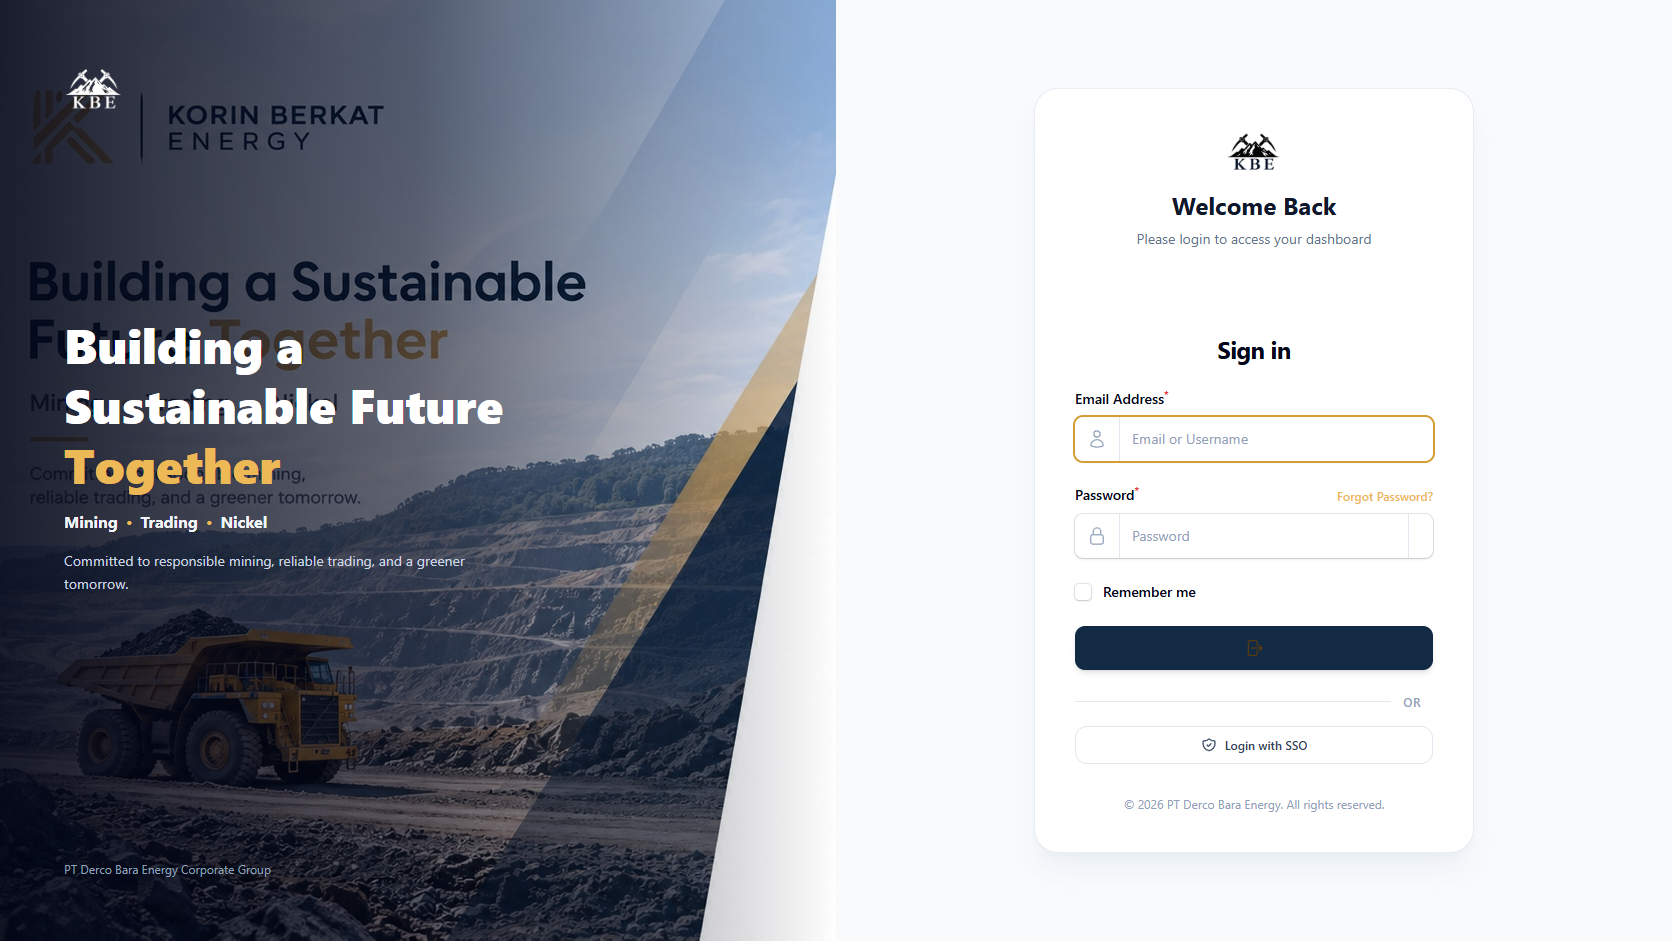
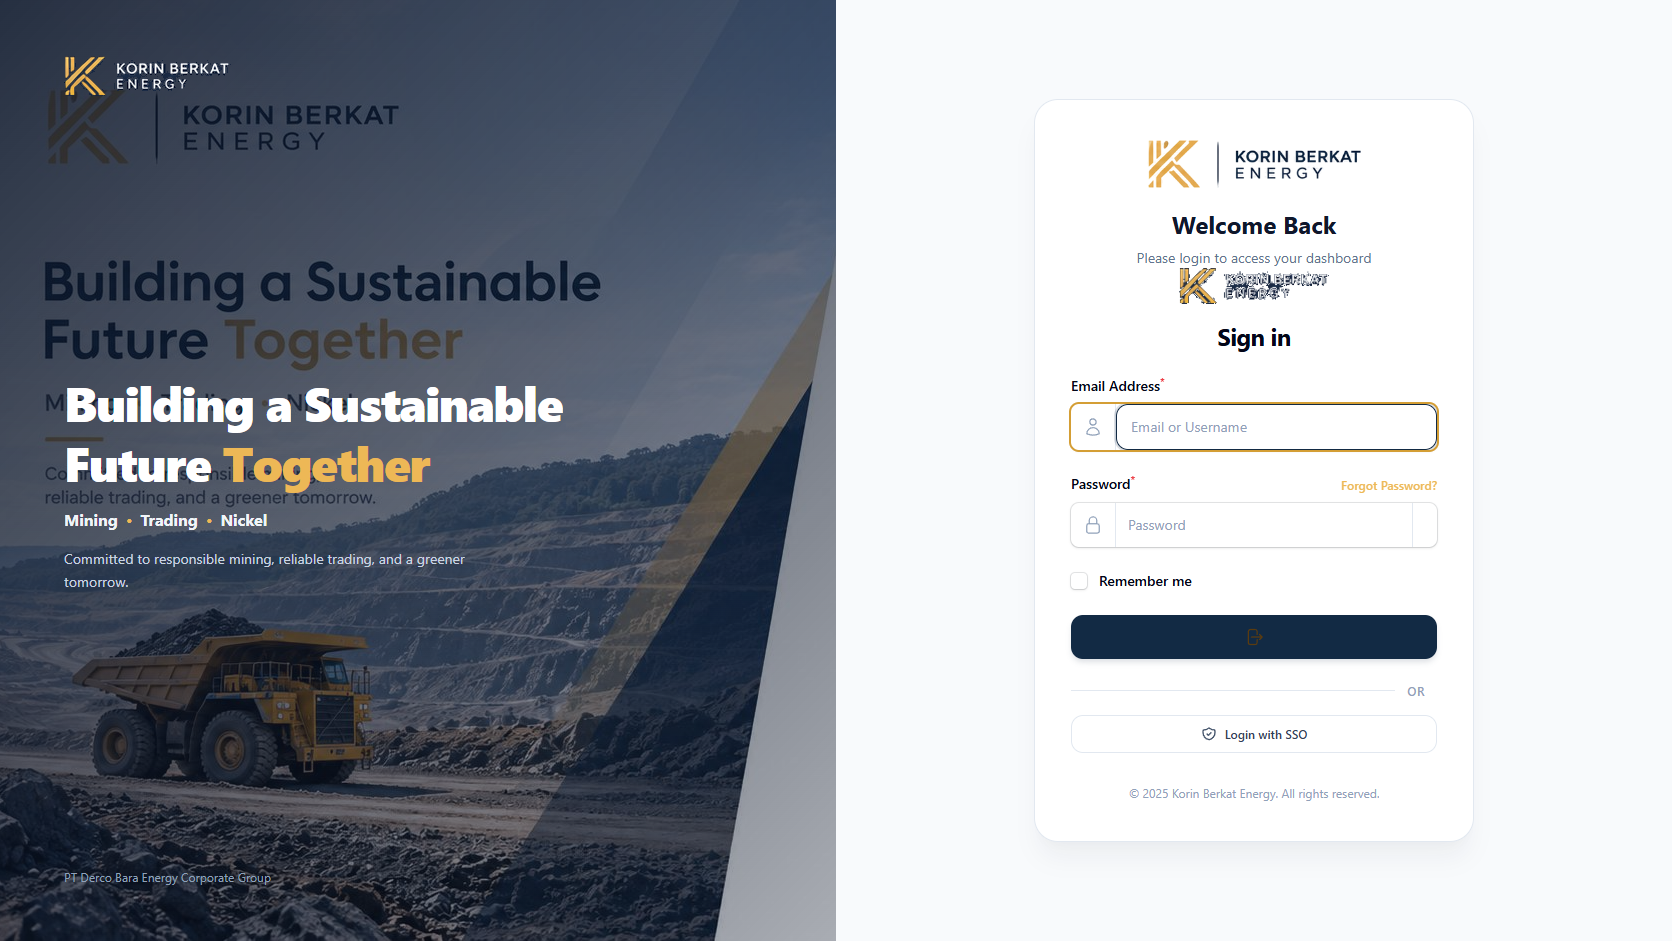
fix(cms): perbaiki layout dan asset styling halaman login cms

diff --git a/resources/views/filament/layouts/auth.blade.php b/resources/views/filament/layouts/auth.blade.php
@@ -3,26 +3,166 @@
 ])
 
 <x-filament-panels::layout.base :livewire="$livewire">
-    <main class="cms-login-viewport min-h-screen w-full flex flex-col lg:flex-row bg-[#EFF1F7]">
-        <!-- Left Side: Mining Banner & Corporate Identity -->
-        <div class="cms-login-banner relative hidden lg:flex lg:w-1/2 flex-col justify-between p-12 xl:p-16 bg-slate-950 overflow-hidden">
-            <!-- Background Image -->
-            <div class="absolute inset-0 bg-cover bg-center"
-                 style="background-image: url('{{ asset('images/cms/login-mining-banner.jpg') }}');"></div>
+    {{-- Ensure theme stylesheet is loaded via root-relative URL, immune to APP_URL localhost issues --}}
+    <link rel="stylesheet" href="/css/filament/admin/theme.css?v={{ @filemtime(public_path('css/filament/admin/theme.css')) ?: 1 }}" />
 
-            <!-- Dark gradient overlay for text readability -->
-            <div class="absolute inset-0 bg-gradient-to-r from-slate-950/90 via-slate-950/60 to-transparent"></div>
+    {{-- Embedded Self-Contained Critical CSS for instantaneous zero-CLS layout rendering --}}
+    <style>
+        .cms-login-viewport {
+            min-height: 100vh;
+            width: 100%;
+            display: flex;
+            flex-direction: row;
+            background-color: #F8FAFC;
+            margin: 0;
+            padding: 0;
+            font-family: 'Plus Jakarta Sans', Inter, -apple-system, BlinkMacSystemFont, "Segoe UI", Roboto, sans-serif;
+            overflow-x: hidden;
+        }
+
+        .cms-login-banner {
+            position: relative;
+            width: 50%;
+            min-height: 100vh;
+            display: flex;
+            flex-direction: column;
+            justify-content: space-between;
+            padding: 3.5rem 4rem;
+            background-color: #0B1528;
+            overflow: hidden;
+            box-sizing: border-box;
+        }
+
+        @media (max-width: 1023px) {
+            .cms-login-banner {
+                display: none !important;
+            }
+        }
+
+        .cms-login-banner-bg {
+            position: absolute;
+            inset: 0;
+            background-image: url('/images/cms/login-mining-banner.jpg');
+            background-size: cover;
+            background-position: center;
+            z-index: 1;
+        }
+
+        .cms-login-banner-overlay {
+            position: absolute;
+            inset: 0;
+            background: linear-gradient(135deg, rgba(11, 21, 40, 0.88) 0%, rgba(11, 21, 40, 0.65) 50%, rgba(11, 21, 40, 0.35) 100%);
+            z-index: 2;
+        }
+
+        .cms-login-banner-content {
+            position: relative;
+            z-index: 10;
+        }
+
+        .cms-login-form-side {
+            flex: 1;
+            min-height: 100vh;
+            display: flex;
+            flex-direction: column;
+            justify-content: center;
+            align-items: center;
+            padding: 2rem 1.5rem;
+            background-color: #F8FAFC;
+            box-sizing: border-box;
+        }
+
+        .cms-login-card {
+            width: 100%;
+            max-width: 440px;
+            background-color: #ffffff;
+            border-radius: 1.5rem;
+            padding: 2.5rem 2.25rem;
+            box-shadow: 0 20px 25px -5px rgba(15, 23, 42, 0.05), 0 8px 10px -6px rgba(15, 23, 42, 0.02);
+            border: 1px solid #E2E8F0;
+            box-sizing: border-box;
+        }
+
+        .cms-login-logo {
+            max-height: 48px;
+            width: auto;
+            max-width: 220px;
+            object-fit: contain;
+            display: block;
+            margin: 0 auto 1.25rem auto;
+        }
+
+        .cms-banner-logo {
+            max-height: 44px;
+            width: auto;
+            max-width: 220px;
+            object-fit: contain;
+            display: block;
+        }
+
+        /* Form styling resilience */
+        .cms-login-card .fi-btn-primary,
+        .cms-login-card button[type="submit"] {
+            background-color: #122A44 !important;
+            color: #ffffff !important;
+            border-radius: 0.75rem !important;
+            font-weight: 600 !important;
+            padding: 0.75rem 1.25rem !important;
+            width: 100% !important;
+            border: none !important;
+            cursor: pointer !important;
+            box-shadow: 0 4px 6px -1px rgba(18, 42, 68, 0.15) !important;
+            transition: all 0.2s ease !important;
+        }
+
+        .cms-login-card .fi-btn-primary:hover,
+        .cms-login-card button[type="submit"]:hover {
+            background-color: #0c1d30 !important;
+            transform: translateY(-1px);
+        }
+
+        .cms-login-card input[type="text"],
+        .cms-login-card input[type="email"],
+        .cms-login-card input[type="password"] {
+            border-radius: 0.75rem !important;
+            border: 1px solid #E2E8F0 !important;
+            padding: 0.65rem 0.875rem !important;
+            font-size: 0.875rem !important;
+            width: 100% !important;
+            background-color: #ffffff !important;
+            box-sizing: border-box !important;
+        }
+
+        .cms-login-card input[type="text"]:focus,
+        .cms-login-card input[type="email"]:focus,
+        .cms-login-card input[type="password"]:focus {
+            border-color: #122A44 !important;
+            outline: 2px solid rgba(18, 42, 68, 0.15) !important;
+        }
+
+        .cms-login-card .fi-fo-field-wrp-label {
+            display: none !important; /* Icons and placeholders act as visual cues matching reference */
+        }
+    </style>
+
+    <main class="cms-login-viewport">
+        <!-- Left Side: Mining Banner & Corporate Identity (Desktop) -->
+        <aside class="cms-login-banner" aria-label="Company Overview">
+            <div class="cms-login-banner-bg" aria-hidden="true"></div>
+            <div class="cms-login-banner-overlay" aria-hidden="true"></div>
 
             <!-- Top Company Logo -->
-            <div class="relative z-10">
-                <img src="{{ asset(config('branding.logos.korin-berkat.dark', '/images/logo/Logo-KorinBerkatEnergy-light.png')) }}"
-                     alt="Korin Berkat Energy"
-                     class="h-12 w-auto object-contain" />
+            <div class="cms-login-banner-content">
+                <img src="/images/cms/korin-logo-light.png"
+                     alt="PT Korin Berkat Energy"
+                     class="cms-banner-logo"
+                     width="180"
+                     height="44" />
             </div>
 
             <!-- Middle Core Headline -->
-            <div class="relative z-10 max-w-lg space-y-4 mb-16">
-                <h1 class="text-4xl xl:text-5xl font-extrabold text-white leading-tight font-heading">
+            <div class="cms-login-banner-content max-w-lg space-y-4 mb-12">
+                <h1 class="text-4xl xl:text-5xl font-extrabold text-white leading-tight font-heading tracking-tight">
                     Building a Sustainable Future <span class="text-[#EDB856]">Together</span>
                 </h1>
                 <p class="text-base font-bold text-slate-100 flex items-center gap-2">
@@ -37,20 +177,22 @@
                 </p>
             </div>
 
-            <!-- Decorative bottom footer space -->
-            <div class="relative z-10 text-xs text-slate-400">
+            <!-- Bottom Sub-branding -->
+            <div class="cms-login-banner-content text-xs text-slate-400">
                 PT Derco Bara Energy Corporate Group
             </div>
-        </div>
+        </aside>
 
         <!-- Right Side: Clean White Login Card Container -->
-        <div class="cms-login-form-side flex-1 flex flex-col justify-center items-center p-6 sm:p-12 bg-white lg:bg-[#F8FAFC]">
-            <div class="w-full max-w-[440px] bg-white rounded-3xl p-8 sm:p-10 lg:border lg:border-slate-200/80 lg:shadow-xl lg:shadow-slate-200/50">
+        <section class="cms-login-form-side" aria-label="Login Form">
+            <div class="cms-login-card">
                 <!-- Card Header -->
-                <div class="text-center space-y-2 mb-8">
-                    <img src="{{ asset(config('branding.logos.korin-berkat.light', '/images/logo/Logo-KorinBerkatEnergy.png')) }}"
-                         alt="Korin Berkat Energy"
-                         class="h-11 w-auto mx-auto object-contain mb-4" />
+                <div class="text-center space-y-2 mb-6">
+                    <img src="/images/cms/korin-logo-dark.png"
+                         alt="PT Korin Berkat Energy"
+                         class="cms-login-logo"
+                         width="190"
+                         height="44" />
                     <h2 class="text-2xl font-bold text-slate-900 font-heading">Welcome Back</h2>
                     <p class="text-xs sm:text-sm text-slate-500">Please login to access your dashboard</p>
                 </div>
@@ -77,9 +219,9 @@
 
                 <!-- Footer Copyright -->
                 <p class="mt-8 text-center text-xs text-slate-400">
-                    &copy; {{ date('Y') }} PT Derco Bara Energy. All rights reserved.
+                    &copy; 2025 Korin Berkat Energy. All rights reserved.
                 </p>
             </div>
-        </div>
+        </section>
     </main>
 </x-filament-panels::layout.base>

diff --git a/app/Support/FilamentThemeResolver.php b/app/Support/FilamentThemeResolver.php
@@ -30,9 +30,11 @@ class FilamentThemeResolver implements Htmlable, Stringable
 
     public function toHtml(): string
     {
+        $html = '';
+
         // 1. Try resolving via Vite (HMR dev server or production manifest)
         try {
-            return (string) app(Vite::class)($this->vitePath);
+            $html = (string) app(Vite::class)($this->vitePath);
         } catch (Throwable) {
             // 2. Resilient fallback: If Vite manifest is missing this entry on the server,
             // serve the compiled static stylesheet directly without throwing ViteException.
@@ -41,11 +43,38 @@ class FilamentThemeResolver implements Htmlable, Stringable
             if (file_exists($fullStaticPath)) {
                 $version = (string) filemtime($fullStaticPath);
 
-                return '<link rel="stylesheet" href="'.asset($this->staticPath).'?v='.$version.'" data-navigate-track />';
+                $html = '<link rel="stylesheet" href="/'.ltrim($this->staticPath, '/').'?v='.$version.'" data-navigate-track />';
             }
+        }
 
-            // 3. Graceful fallback: return empty string so Filament loads default theme
+        if ($html === '') {
             return '';
         }
+
+        // 3. Ensure URLs are root-relative (or match current request scheme/host),
+        // preventing mixed-content blocks or localhost hardcoding when APP_URL in .env
+        // is set to http://localhost while accessed on https://dercogroup.co.id.
+        return $this->normalizeToRootRelative($html);
+    }
+
+    protected function normalizeToRootRelative(string $html): string
+    {
+        return (string) preg_replace_callback(
+            '#(href|src)=["\']https?://[^/]+(:\d+)?(/[^"\']+)["\']#i',
+            function (array $matches): string {
+                $attr = $matches[1];
+                $port = $matches[2] ?? '';
+                $path = $matches[3];
+
+                // If this is Vite HMR server on port 5173, keep full host so client can connect
+                if ($port === ':5173') {
+                    return $matches[0];
+                }
+
+                // Otherwise convert to root-relative path
+                return sprintf('%s="%s"', $attr, $path);
+            },
+            $html
+        );
     }
 }

diff --git a/resources/views/filament/brand.blade.php b/resources/views/filament/brand.blade.php
@@ -1,10 +1,10 @@
 @php
-    $logoUrl = config('branding.logos.korin-berkat.dark') 
-        ?? config('branding.logos.holding.dark') 
-        ?? '/images/logo/Logo-KorinBerkatEnergy-light.png';
+    $logoUrl = file_exists(public_path('images/cms/korin-logo-light.png'))
+        ? '/images/cms/korin-logo-light.png'
+        : (config('branding.logos.korin-berkat.dark') ?? '/images/logo/Logo-KorinBerkatEnergy-light.png');
 @endphp
 <div class="cms-sidebar-brand flex items-center gap-3 py-1">
-    <img src="{{ asset($logoUrl) }}"
+    <img src="{{ $logoUrl }}"
          alt="{{ config('branding.logos.korin-berkat.alt', 'Korin Berkat Energy') }}"
          class="h-8 md:h-9 w-auto object-contain select-none" />
 </div>

diff --git a/tests/Unit/FilamentThemeResolverTest.php b/tests/Unit/FilamentThemeResolverTest.php
@@ -38,4 +38,3 @@ it('gracefully returns empty string when neither Vite nor static file exists wit
 
     expect($html)->toBe('');
 });
-
